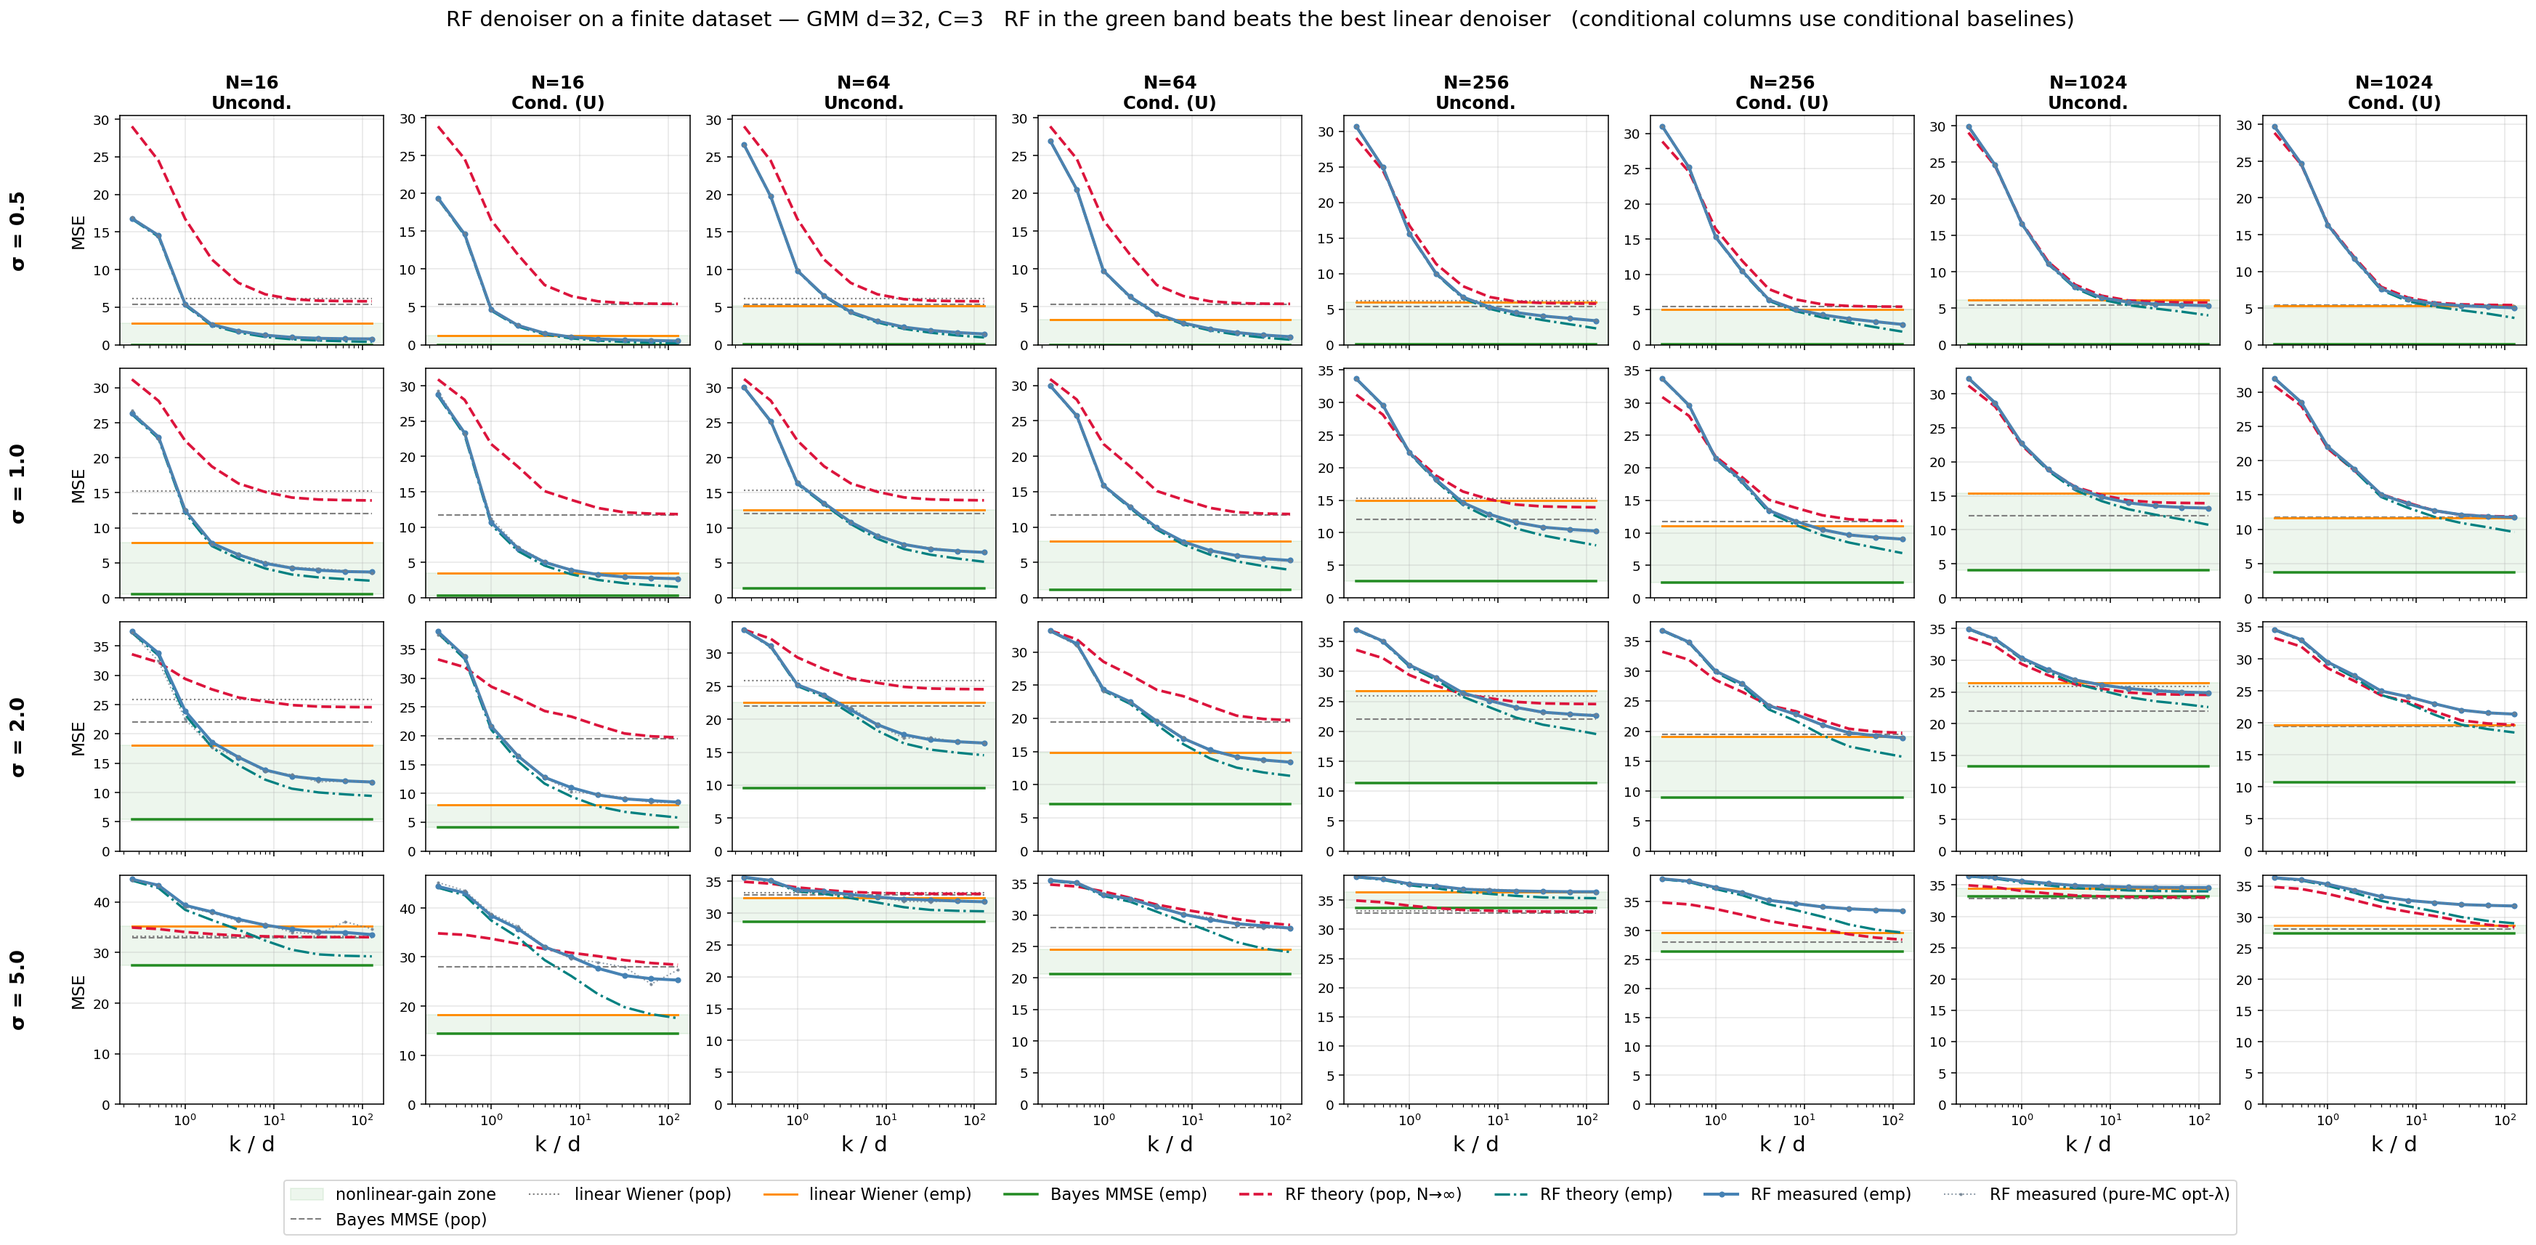
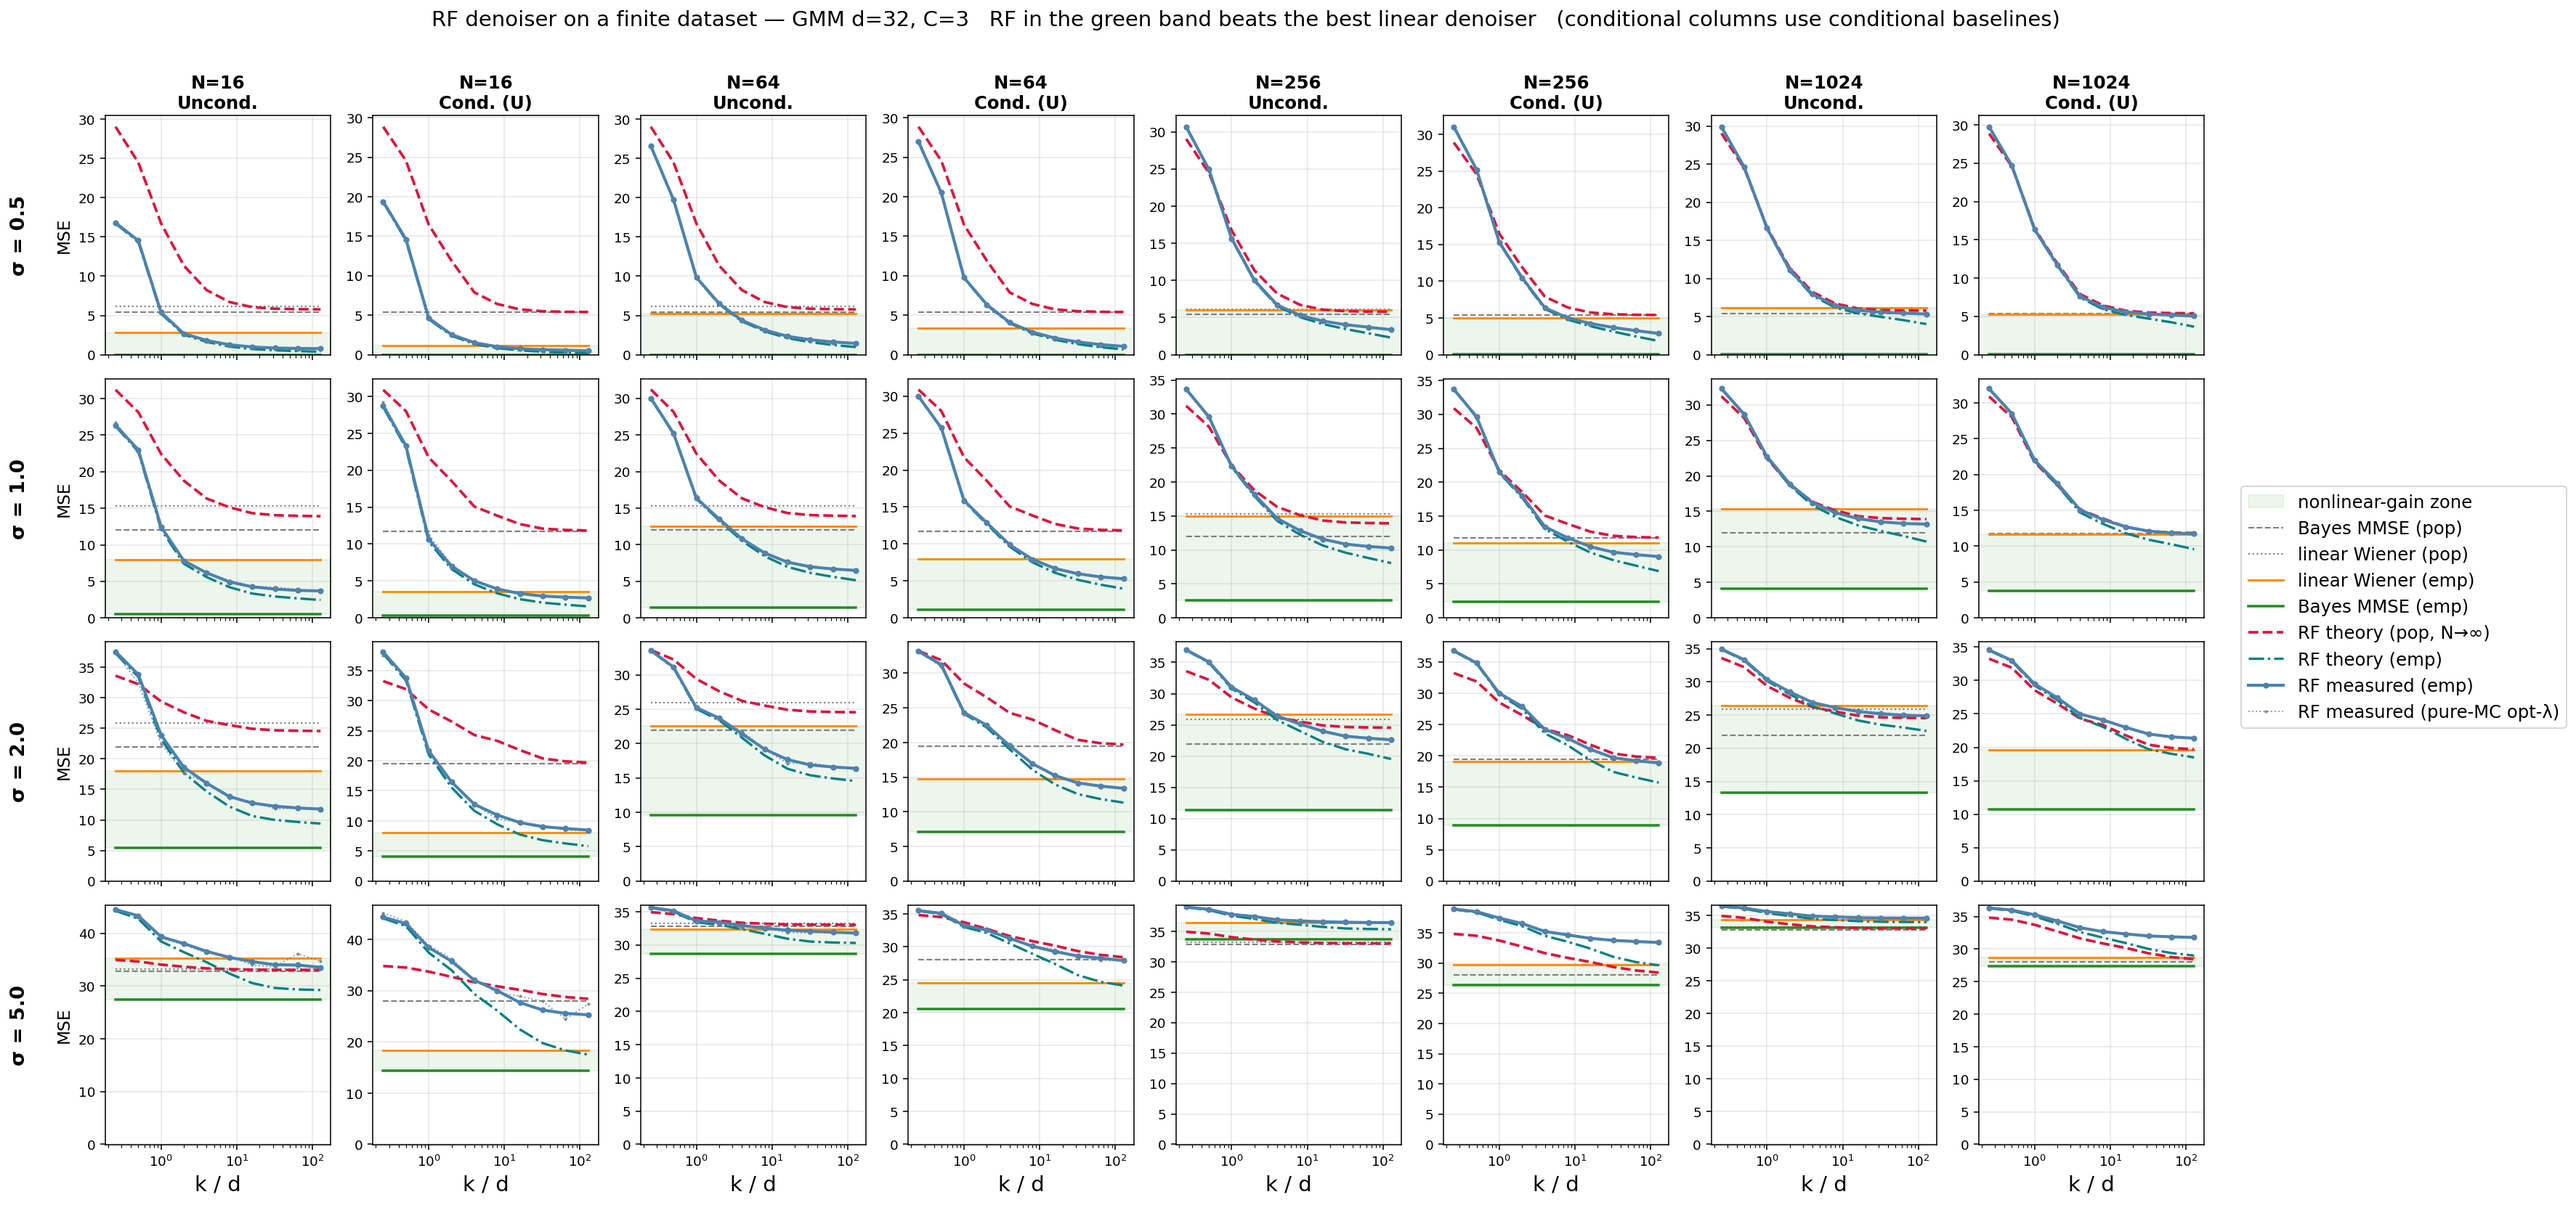
style(rf-gmm): move the ALL_N legend to the right-hand side
Single vertical column outside the axes (loc='center left', bbox 0.885) instead of a
wide 8-column strip under the plot; layout right edge reserved to 0.88. Freeing the
bottom lets the panels extend down, and a one-per-line key is easier to scan than a
long horizontal row. Legend font 11.5 -> 12.5. Regenerated d=8 and d=32.

diff --git a/scripts/rf_gmm_stitch.py b/scripts/rf_gmm_stitch.py
@@ -111,9 +111,10 @@ def main():
                 ax.text(-0.38, 0.5, f'σ = {sg}', transform=ax.transAxes, rotation=90,
                         va='center', ha='center', fontsize=14, fontweight='bold')
 
-    fig.legend(handles.values(), handles.keys(), loc='lower center', ncol=8,
-               fontsize=11.5, frameon=True, bbox_to_anchor=(0.5, -0.012))
-    fig.tight_layout(rect=[0.014, 0.045, 1, 0.972])
+    # legend on the RIGHT, as a single vertical column outside the axes
+    fig.legend(handles.values(), handles.keys(), loc='center left', ncol=1,
+               fontsize=12.5, frameon=True, bbox_to_anchor=(0.885, 0.5))
+    fig.tight_layout(rect=[0.014, 0.012, 0.88, 0.972])
     os.makedirs(os.path.dirname(OUT), exist_ok=True)
     fig.savefig(OUT, dpi=140, bbox_inches='tight')
     print(f"Saved {OUT}   ({nR} rows x {nC} cols, landscape)")
